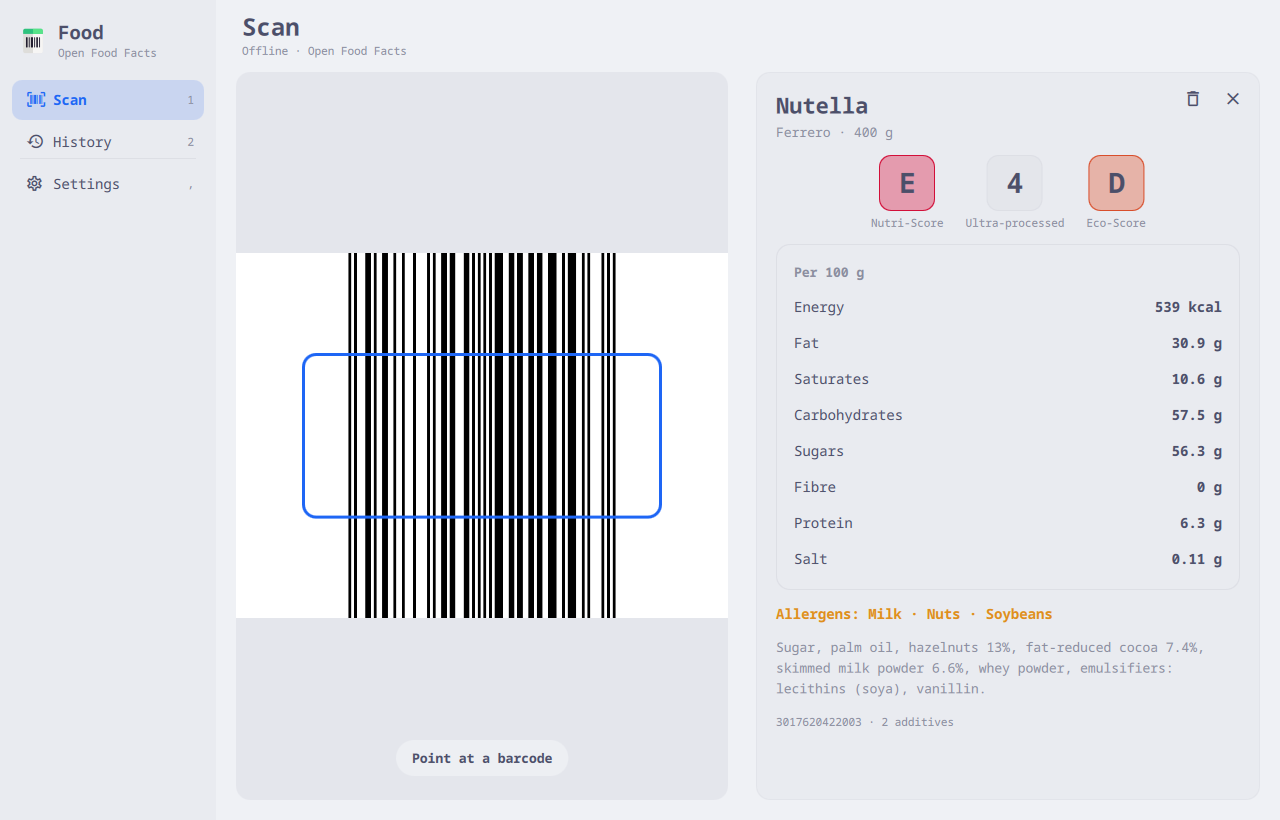
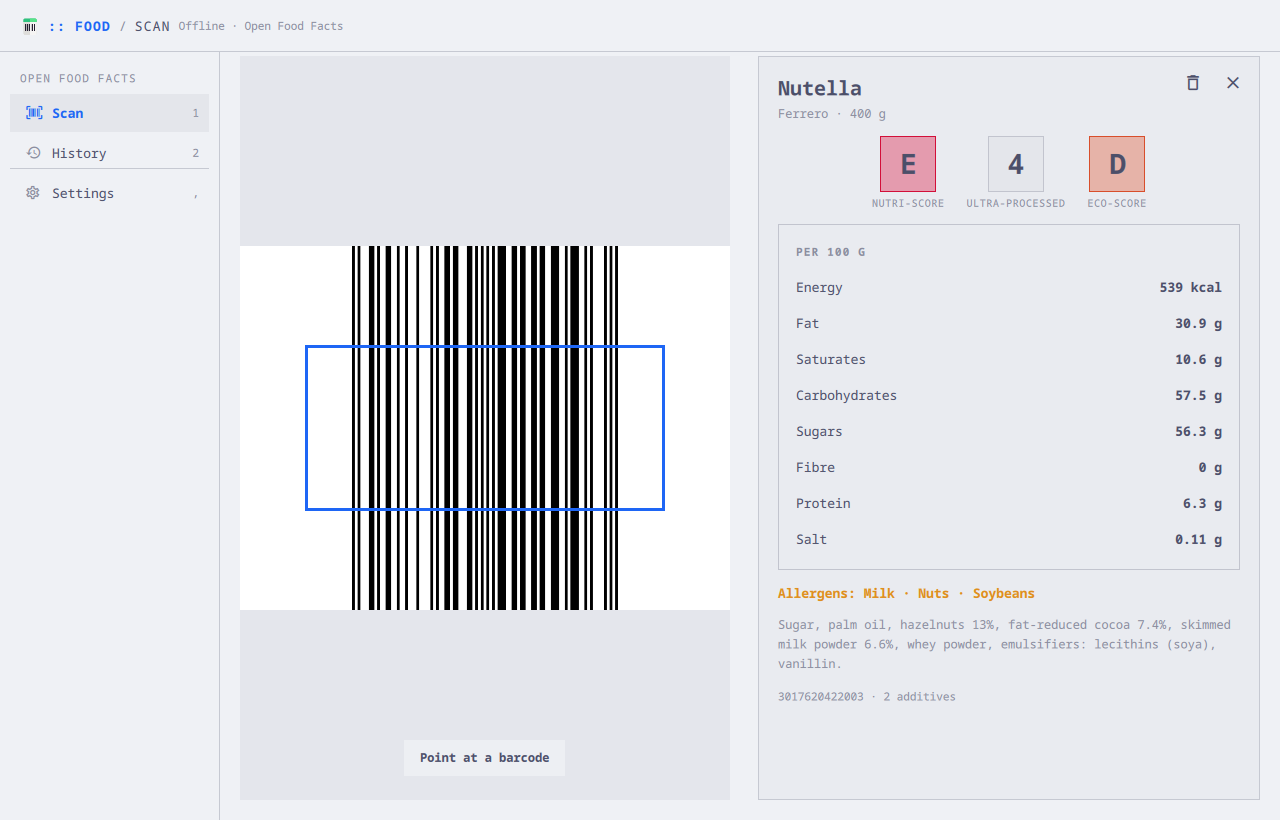
Food in Omarchy's look
The Nutri-Score, NOVA and Eco-Score boxes are square and lined, captioned
in small capitals; the viewfinder frame, its hint and the product pane are
square, and the history's grade tags are square badges.

diff --git a/apps/food/Scanner.qml b/apps/food/Scanner.qml
@@ -104,7 +104,7 @@ Item {
     id: glass
     anchors.fill: parent
     visible: root.busyTitle === "" && root.phase !== "blank"
-    radius: root.app.compact ? 0 : root.app.ui.radius + 4
+    radius: root.app.compact ? 0 : root.app.ui.radius
     color: root.app.ui.well
     clip: true
 
@@ -126,7 +126,7 @@ Item {
       anchors.centerIn: parent
       width: Math.min((picture.visible && picture.paintedWidth > 0 ? picture.paintedWidth : parent.width) * 0.78, 360)
       height: Math.min(width * 0.46, (picture.visible && picture.paintedHeight > 0 ? picture.paintedHeight : parent.height) * 0.7)
-      radius: root.app.ui.radius + 4
+      radius: root.app.ui.radius
       color: "transparent"
       border.width: 3
       border.color: root.app.ui.accent
@@ -138,7 +138,7 @@ Item {
       anchors.bottomMargin: 24
       width: hint.implicitWidth + 32
       height: 36
-      radius: 18
+      radius: root.app.ui.round(height)
       color: root.app.ui.alpha(root.app.ui.bg, 0.85)
       Row {
         id: hint
@@ -151,7 +151,7 @@ Item {
           color: root.app.ui.text
           font.family: root.app.ui.font
           font.pixelSize: root.app.ui.fs.sm
-          font.weight: Font.DemiBold
+          font.weight: Font.Bold
         }
       }
     }

diff --git a/apps/food/GradeBadge.qml b/apps/food/GradeBadge.qml
@@ -20,10 +20,10 @@ Column {
     anchors.horizontalCenter: parent.horizontalCenter
     width: root.size
     height: root.size
-    radius: root.app.ui.radius + 2
+    radius: root.app.ui.radius
     color: root.grade ? root.app.ui.gradeFill(root.grade) : root.app.ui.surfaceHigh
     border.width: 1
-    border.color: root.grade ? root.app.ui.gradeHue(root.grade) : root.app.ui.divider
+    border.color: root.grade ? root.app.ui.gradeHue(root.grade) : root.app.ui.line
     Text {
       anchors.centerIn: parent
       text: root.grade ? root.grade.toUpperCase() : root.fallback
@@ -39,6 +39,8 @@ Column {
     text: root.caption
     color: root.app.ui.muted
     font.family: root.app.ui.font
-    font.pixelSize: root.app.ui.fs.xs
+    font.pixelSize: 10
+    font.capitalization: Font.AllUppercase
+    font.letterSpacing: 0.6
   }
 }

diff --git a/apps/food/ProductView.qml b/apps/food/ProductView.qml
@@ -142,7 +142,7 @@ Item {
               color: root.app.ui.text
               font.family: root.app.ui.font
               font.pixelSize: root.app.ui.fs.md
-              font.weight: Font.DemiBold
+              font.weight: Font.Bold
               font.features: ({ "tnum": 1 })
             }
           }
@@ -157,7 +157,7 @@ Item {
         color: root.app.ui.warn
         font.family: root.app.ui.font
         font.pixelSize: root.app.ui.fs.md
-        font.weight: Font.DemiBold
+        font.weight: Font.Bold
       }
 
       Text {

diff --git a/apps/food/HistoryList.qml b/apps/food/HistoryList.qml
@@ -61,7 +61,7 @@ Item {
         radius: root.app.ui.radius
         color: row.p.nutriscore ? root.app.ui.gradeFill(row.p.nutriscore) : root.app.ui.surfaceHigh
         border.width: 1
-        border.color: row.p.nutriscore ? root.app.ui.gradeHue(row.p.nutriscore) : root.app.ui.divider
+        border.color: row.p.nutriscore ? root.app.ui.gradeHue(row.p.nutriscore) : root.app.ui.line
         Text {
           anchors.centerIn: parent
           text: row.p.nutriscore ? row.p.nutriscore.toUpperCase() : F.DASH

diff --git a/apps/food/Panel.qml b/apps/food/Panel.qml
@@ -465,10 +465,10 @@ App {
       anchors.rightMargin: root.ui.gutter
       anchors.bottomMargin: root.ui.gutter
       anchors.topMargin: 4
-      radius: root.ui.radius + 4
+      radius: root.ui.radius
       color: root.ui.surface
       border.width: 1
-      border.color: root.ui.divider
+      border.color: root.ui.line
 
       readonly property var product: root.selection && root.selection.kind === "product" ? root.book.products[root.selection.code] || null : null
 
